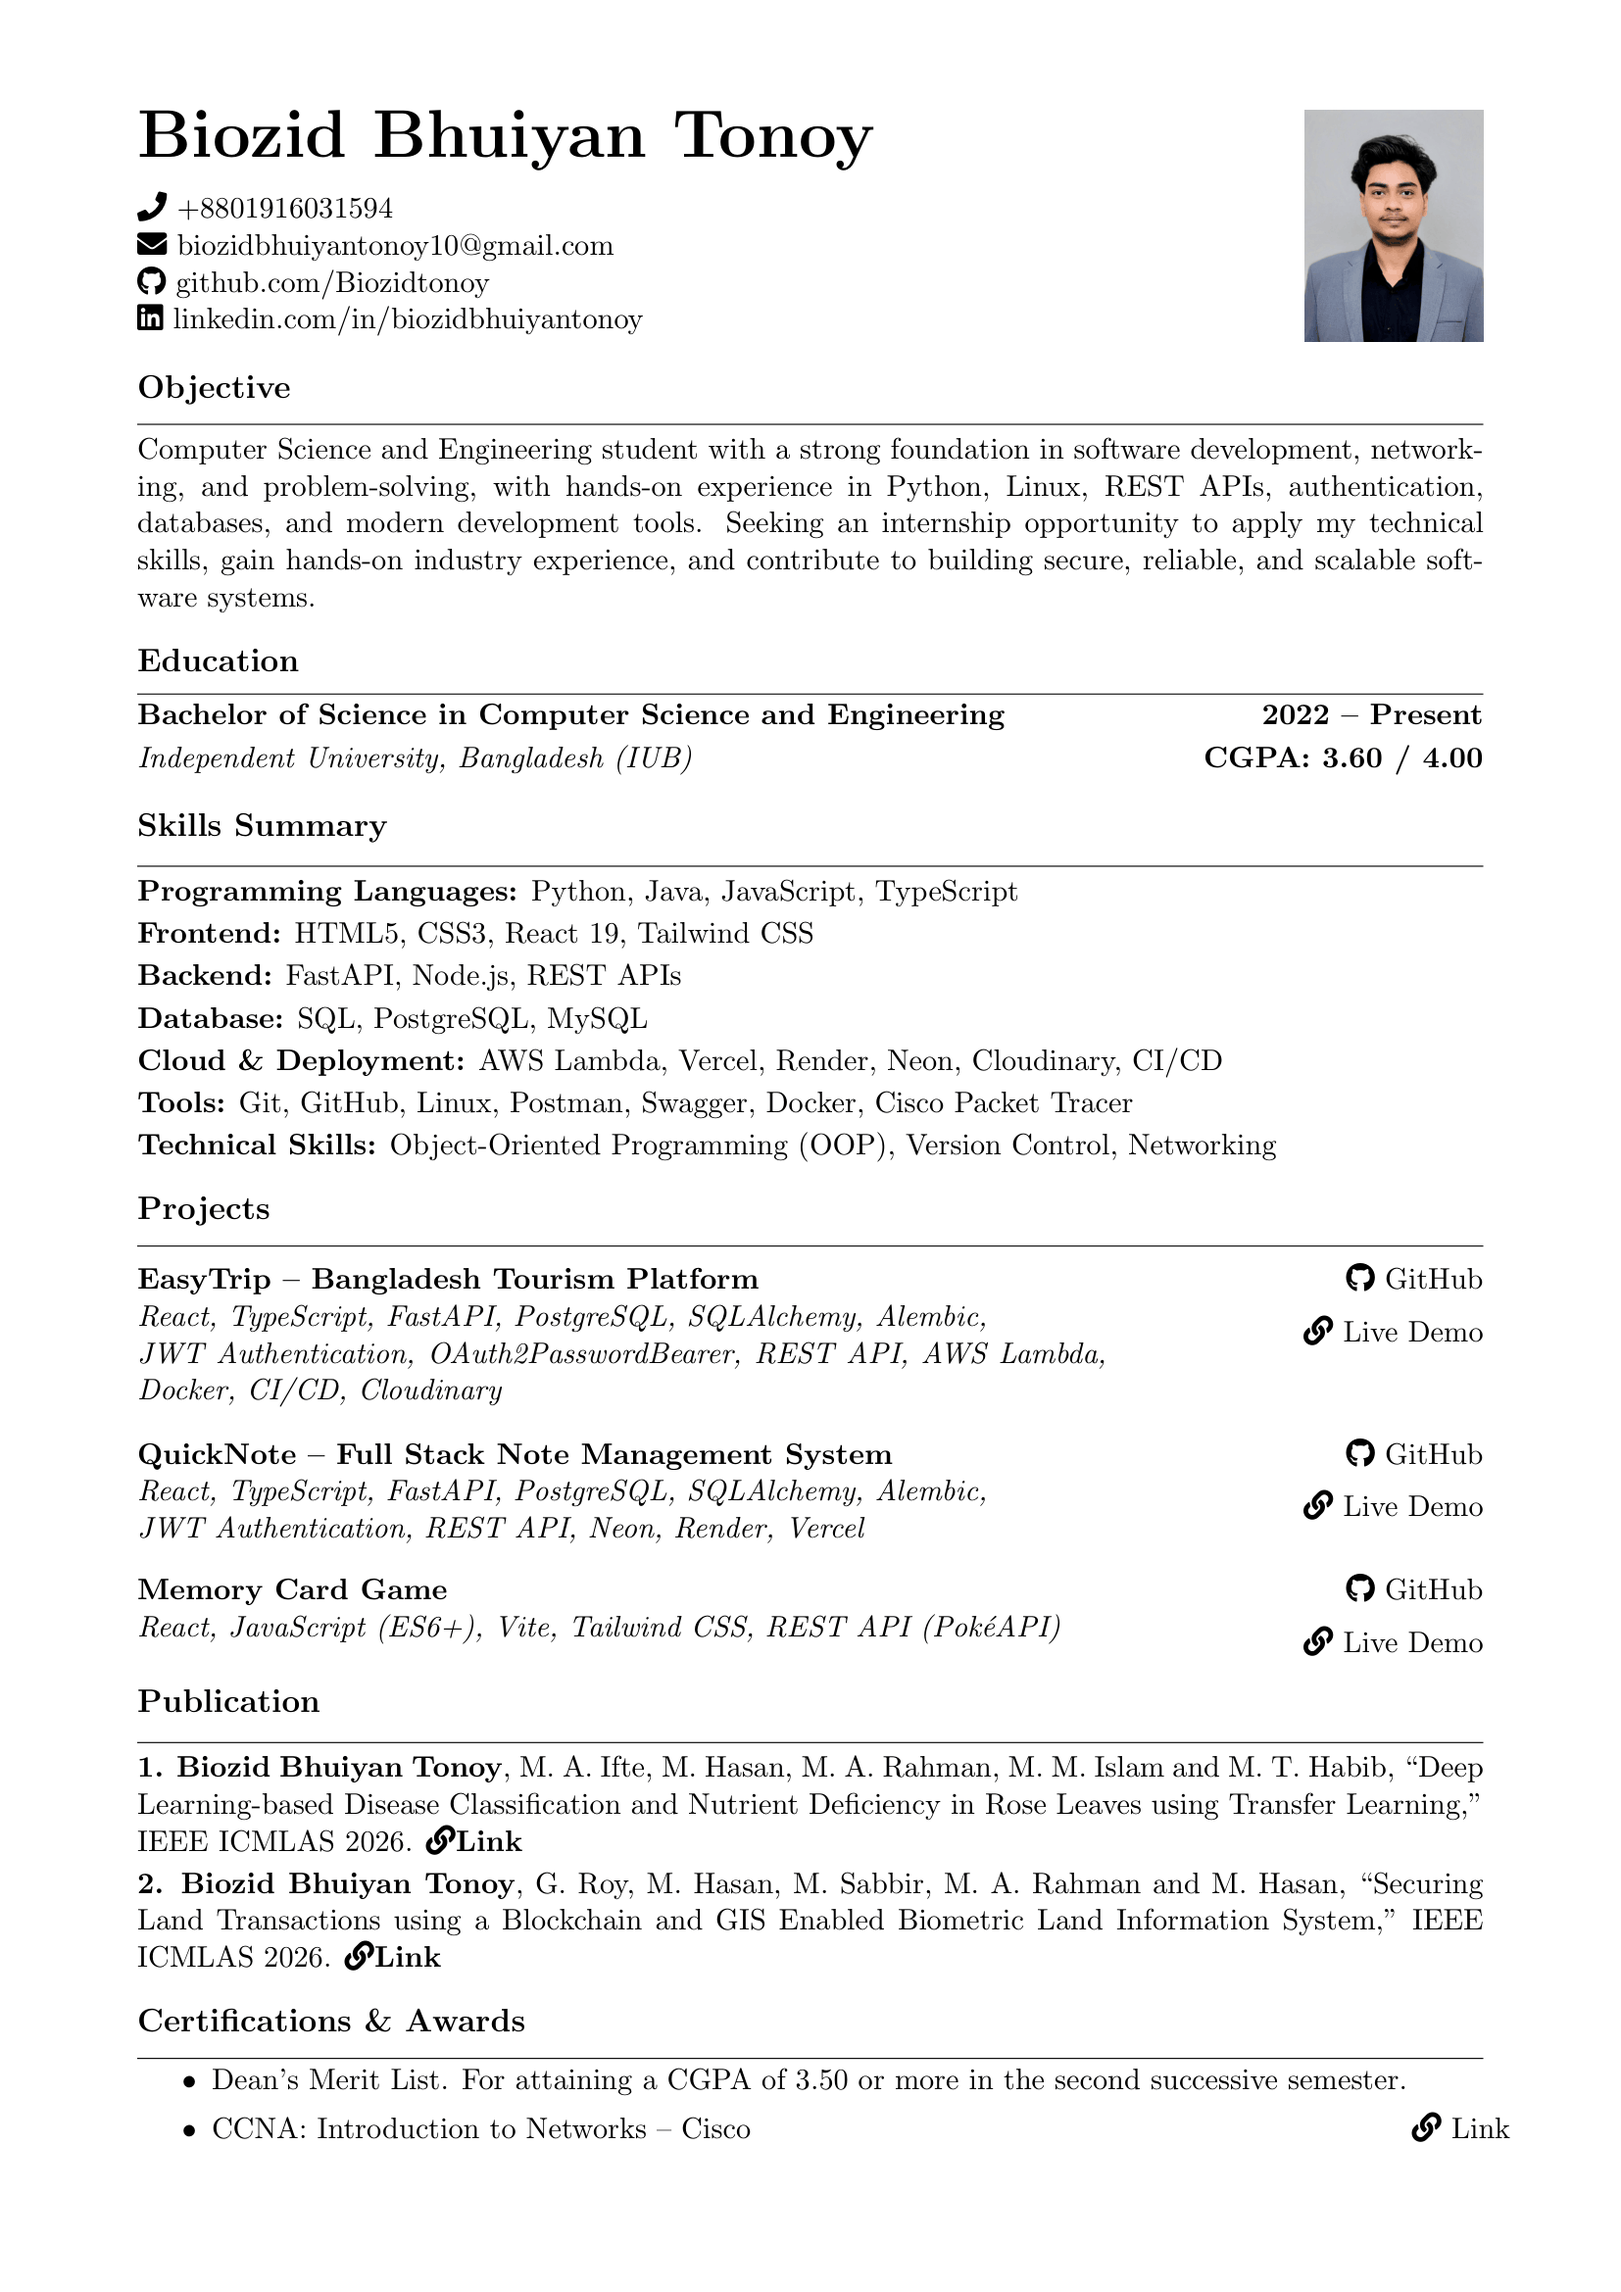
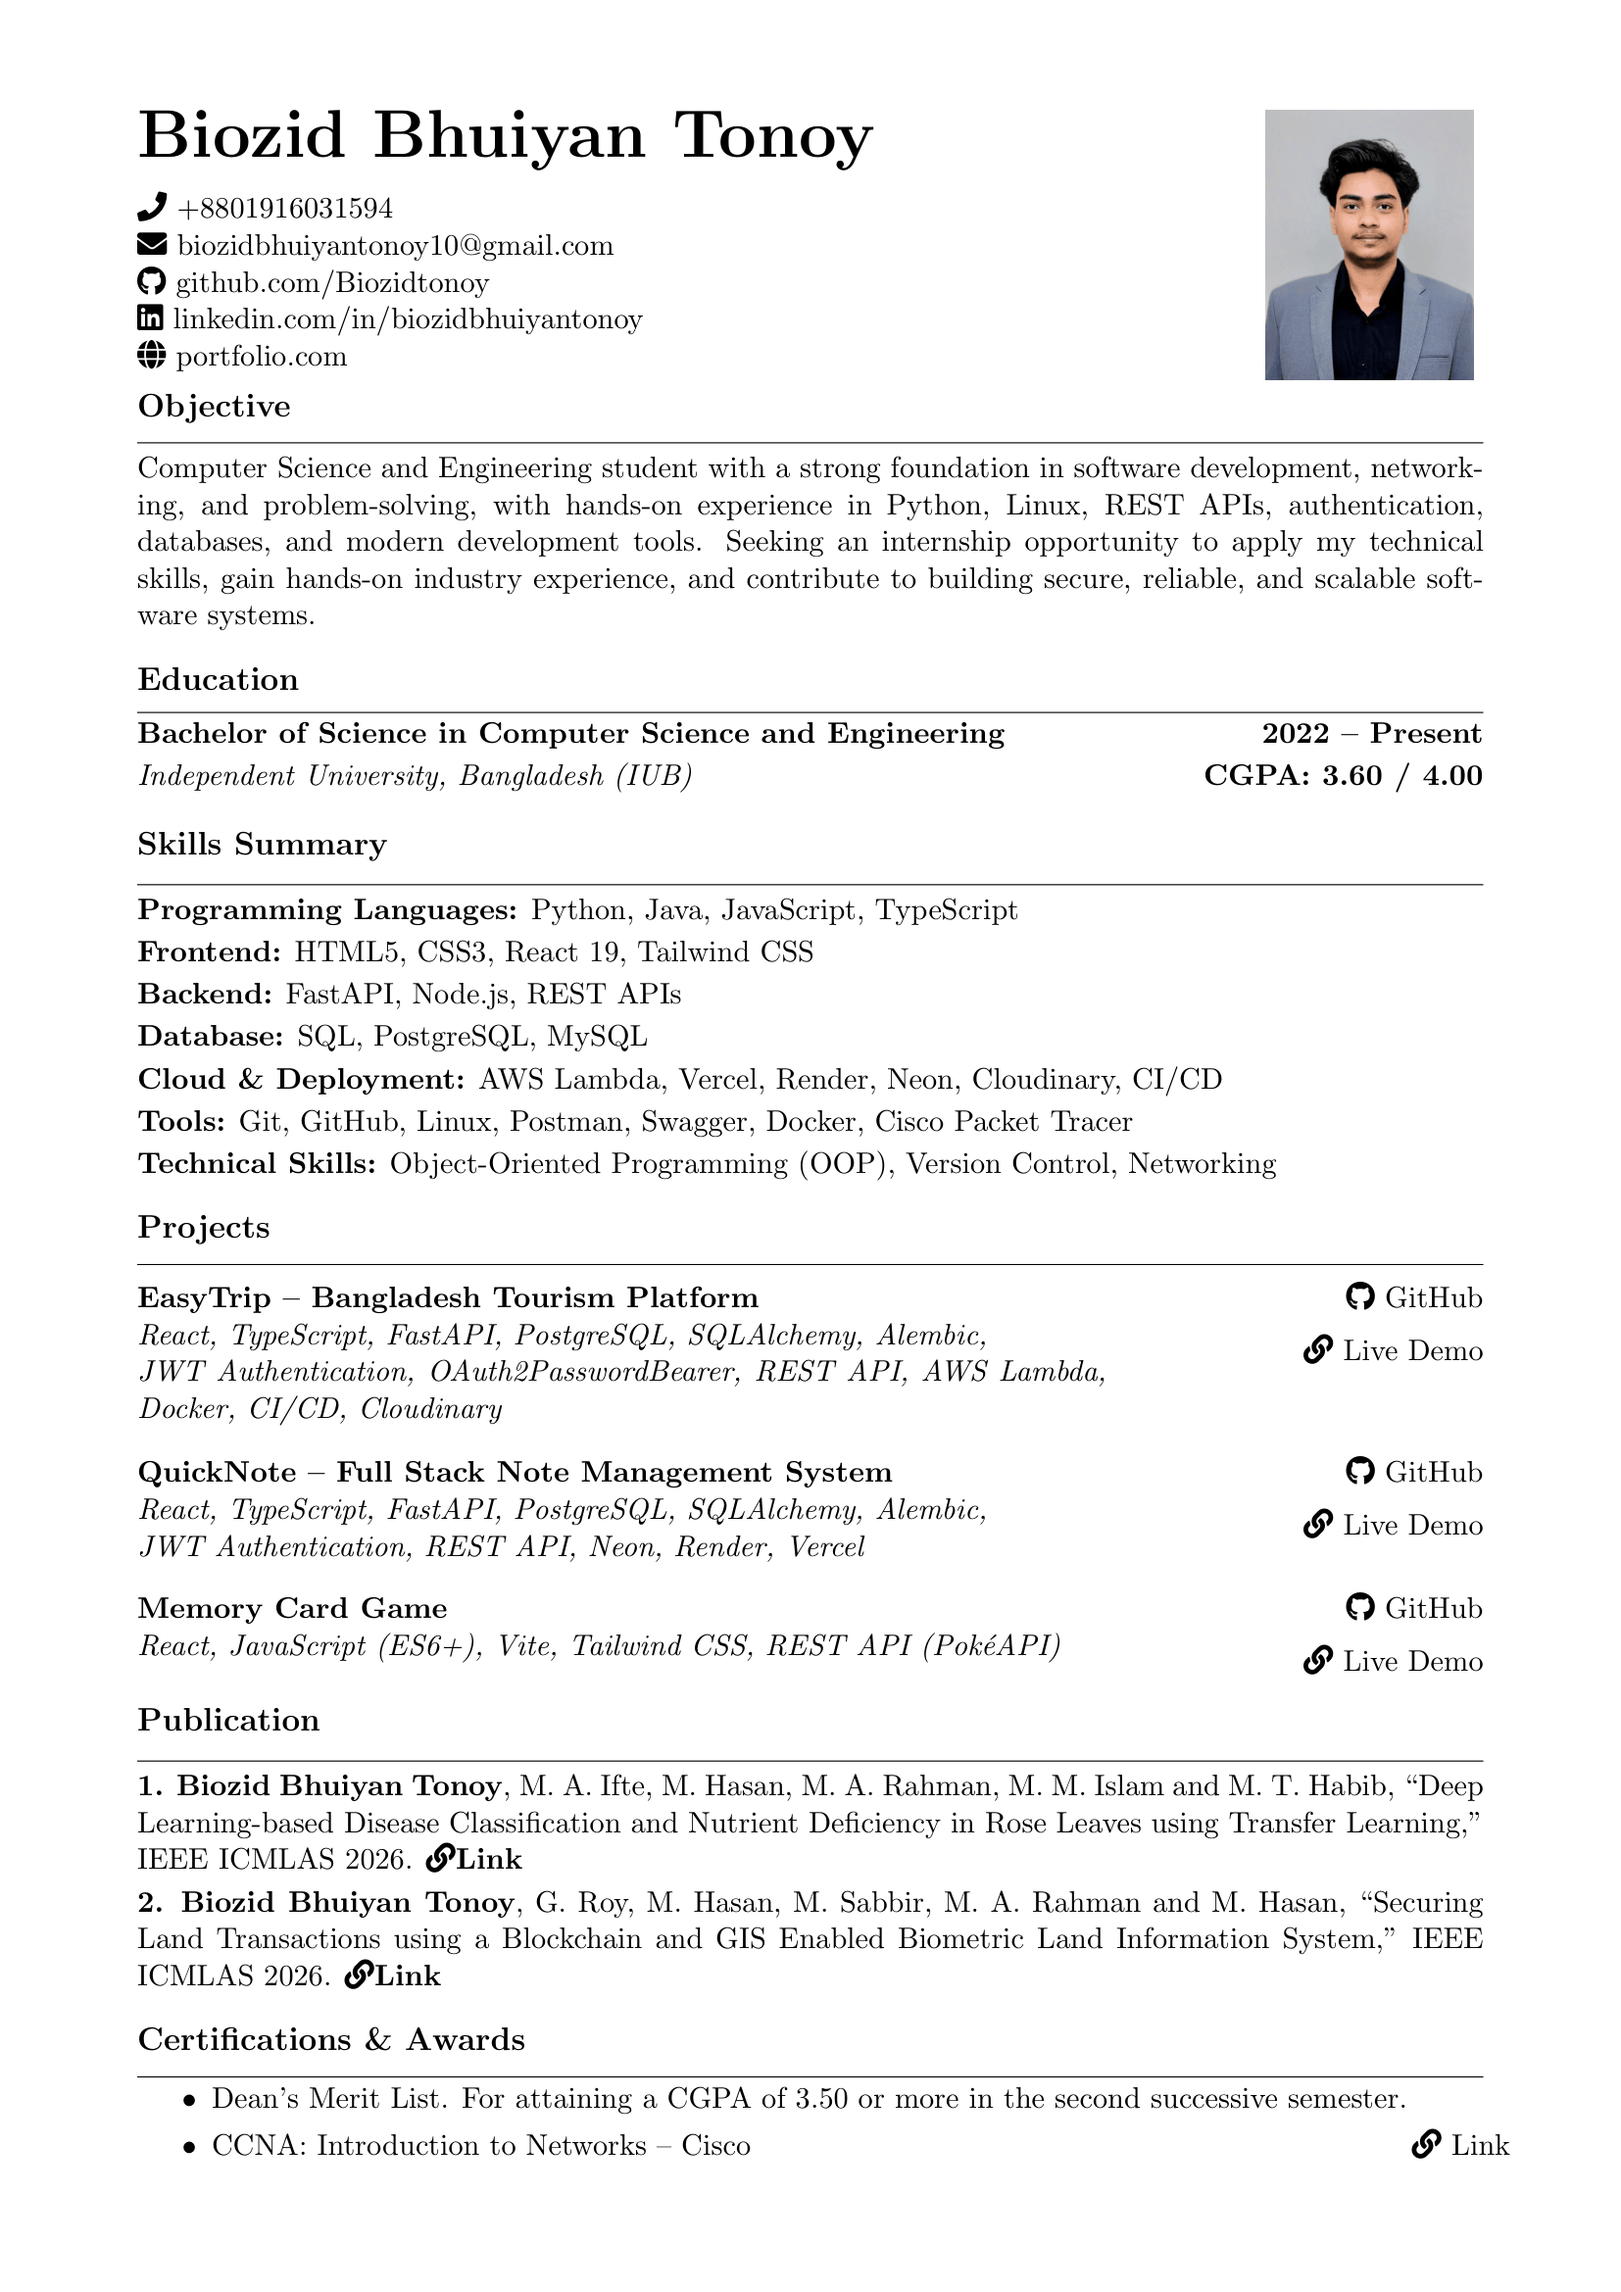
feat: add portfolio SEO configuration

diff --git a/index.html b/index.html
@@ -12,7 +12,7 @@
 
     <meta
       name="description"
-      content="Personal portfolio of Biozid Bhuiyan Tonoy, Software Engineer. Explore my projects, technical skills, education, and software engineering experience."
+      content="Biozid Bhuiyan Tonoy — Software Engineer portfolio showcasing projects, technical skills, education, and software engineering experience."
     />
 
     <meta
@@ -23,6 +23,33 @@
     <meta
       name="robots"
       content="index, follow"
+    />
+
+    <!-- Canonical URL -->
+    <link
+      rel="canonical"
+      href="https://biozidbhuiyantonoy-portfolio.vercel.app/"
+    />
+
+    <!-- Open Graph -->
+    <meta
+      property="og:title"
+      content="Biozid Bhuiyan Tonoy | Software Engineer"
+    />
+
+    <meta
+      property="og:description"
+      content="Portfolio of Biozid Bhuiyan Tonoy, a Software Engineer building practical and scalable software."
+    />
+
+    <meta
+      property="og:url"
+      content="https://biozidbhuiyantonoy-portfolio.vercel.app/"
+    />
+
+    <meta
+      property="og:type"
+      content="website"
     />
 
     <title>

diff --git a/src/pages/ResumePage.tsx b/src/pages/ResumePage.tsx
@@ -45,6 +45,8 @@ export default function ResumePage() {
             Download Resume
           </a>
 
+          <p>To access the attach link on resume please download the pdf version</p>
+
         </div>
 
         {/* Single-page resume preview */}
